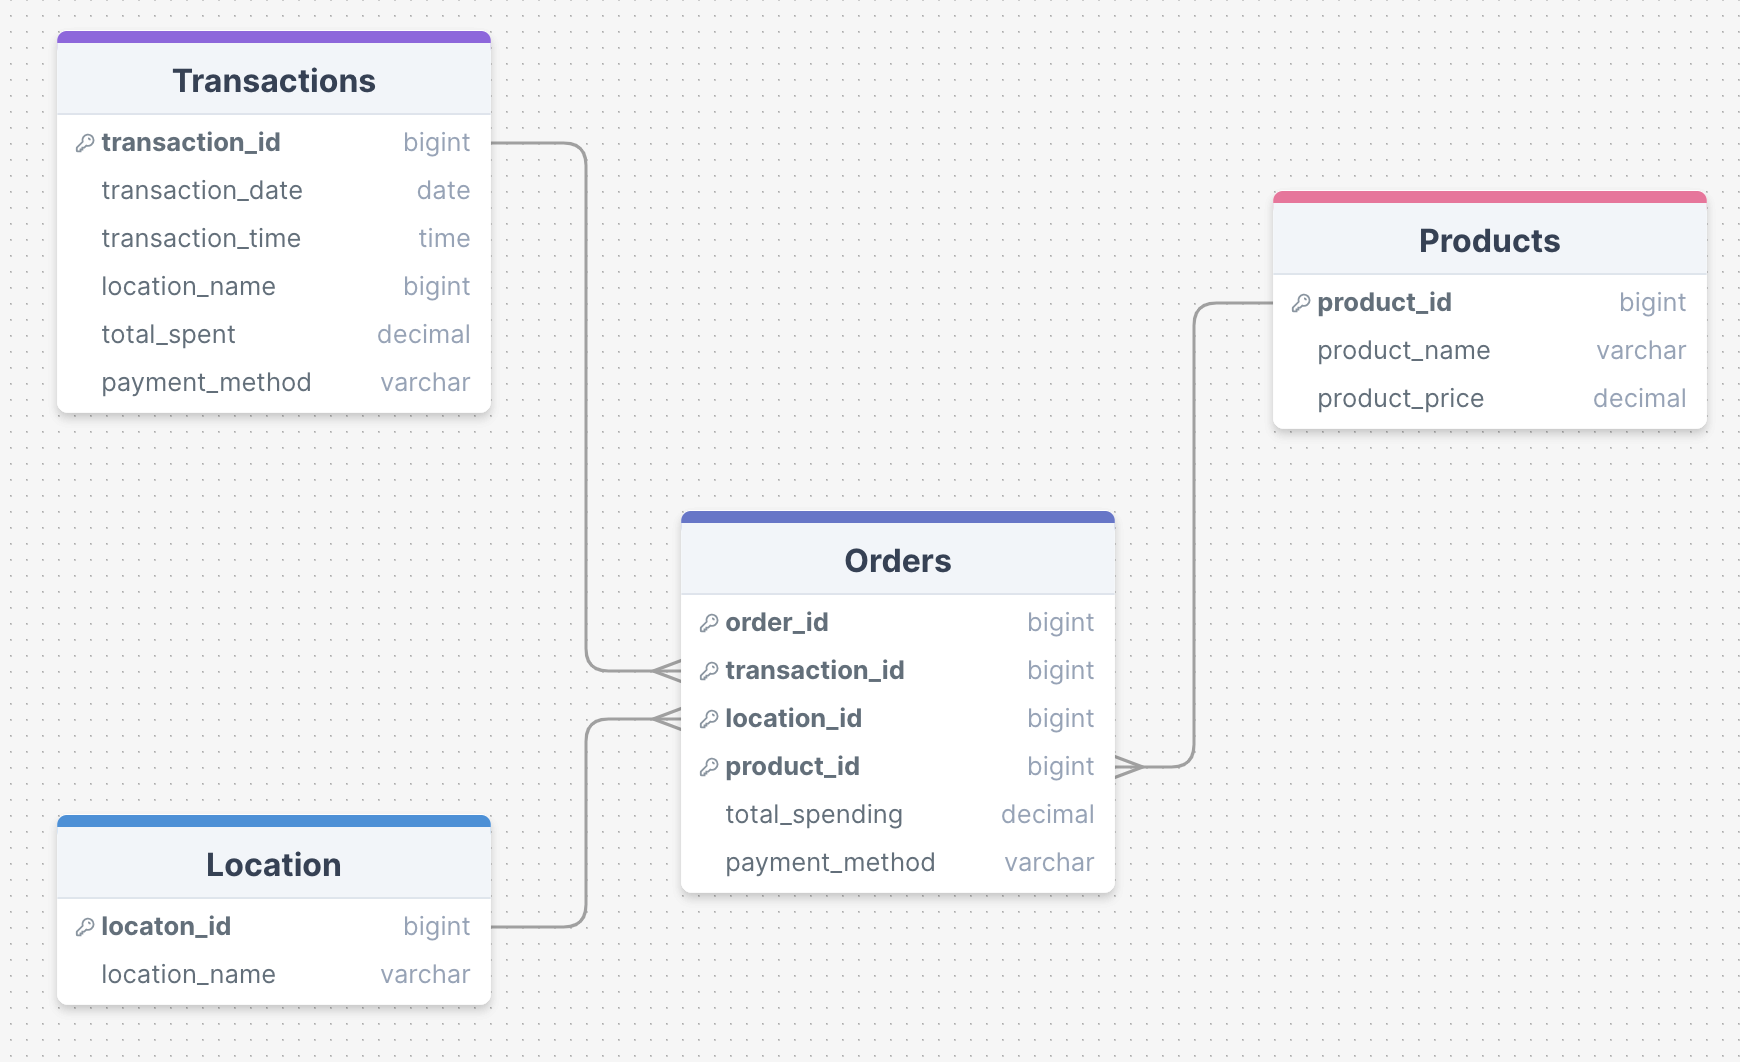
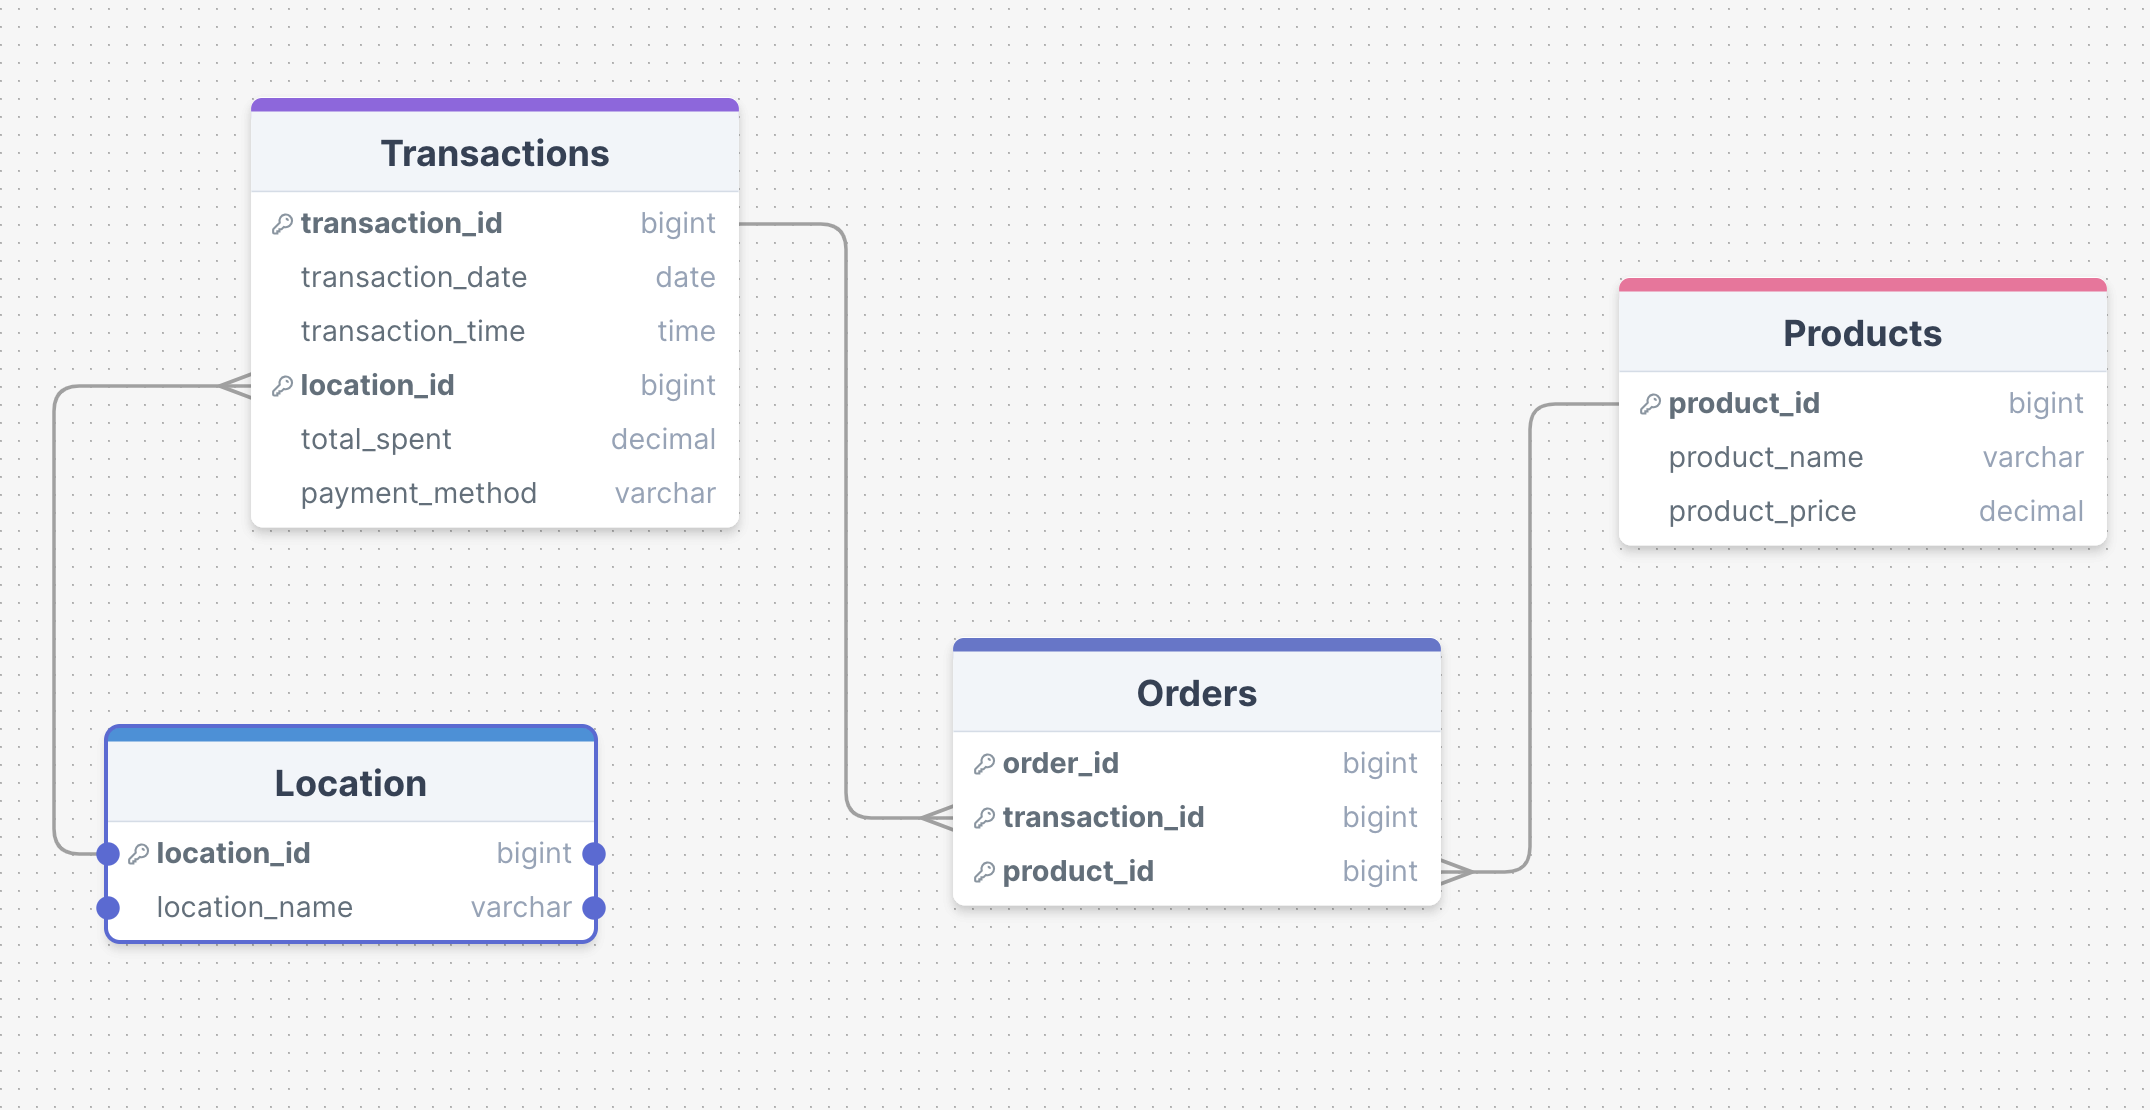
readme and database schema update

diff --git a/README.md b/README.md
@@ -34,3 +34,11 @@ Our service ensures customer privacy (names, card number, etc.)
 ## Database Schema Model
 
 ![database_schema_model](database_schema_model.png)
+
+
+ # Sprint 1 - ETL
+
+To run ETL using files provided:
+
+ 1. Copy and Paste "Nubi_setup.sql" into adminer
+ 2. Run load.py
